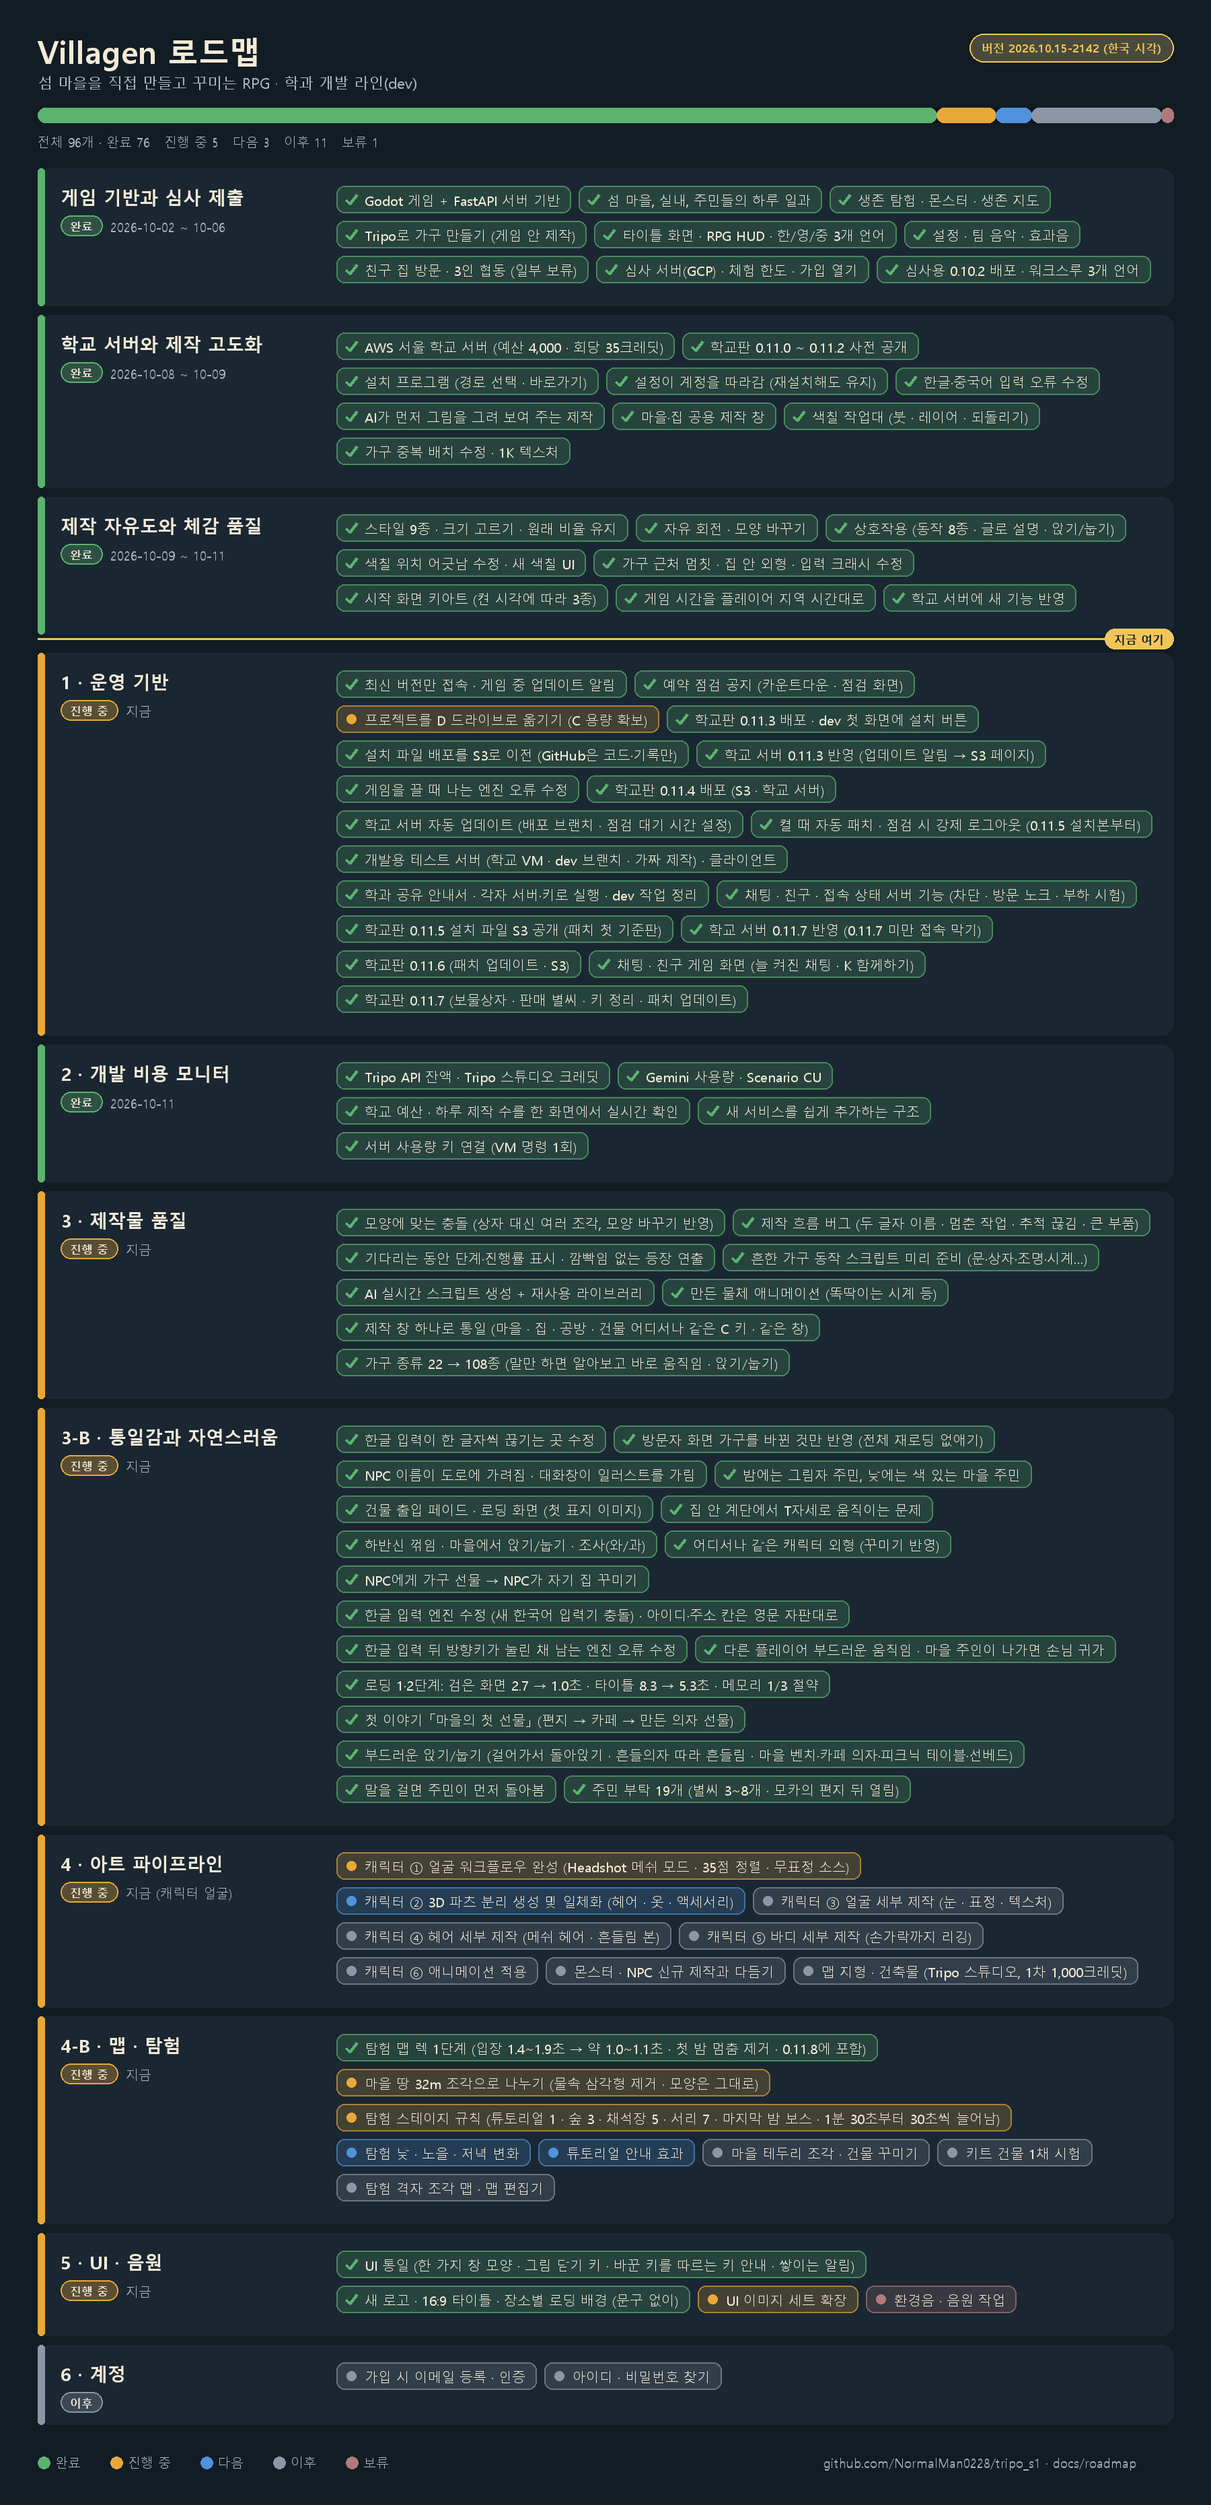
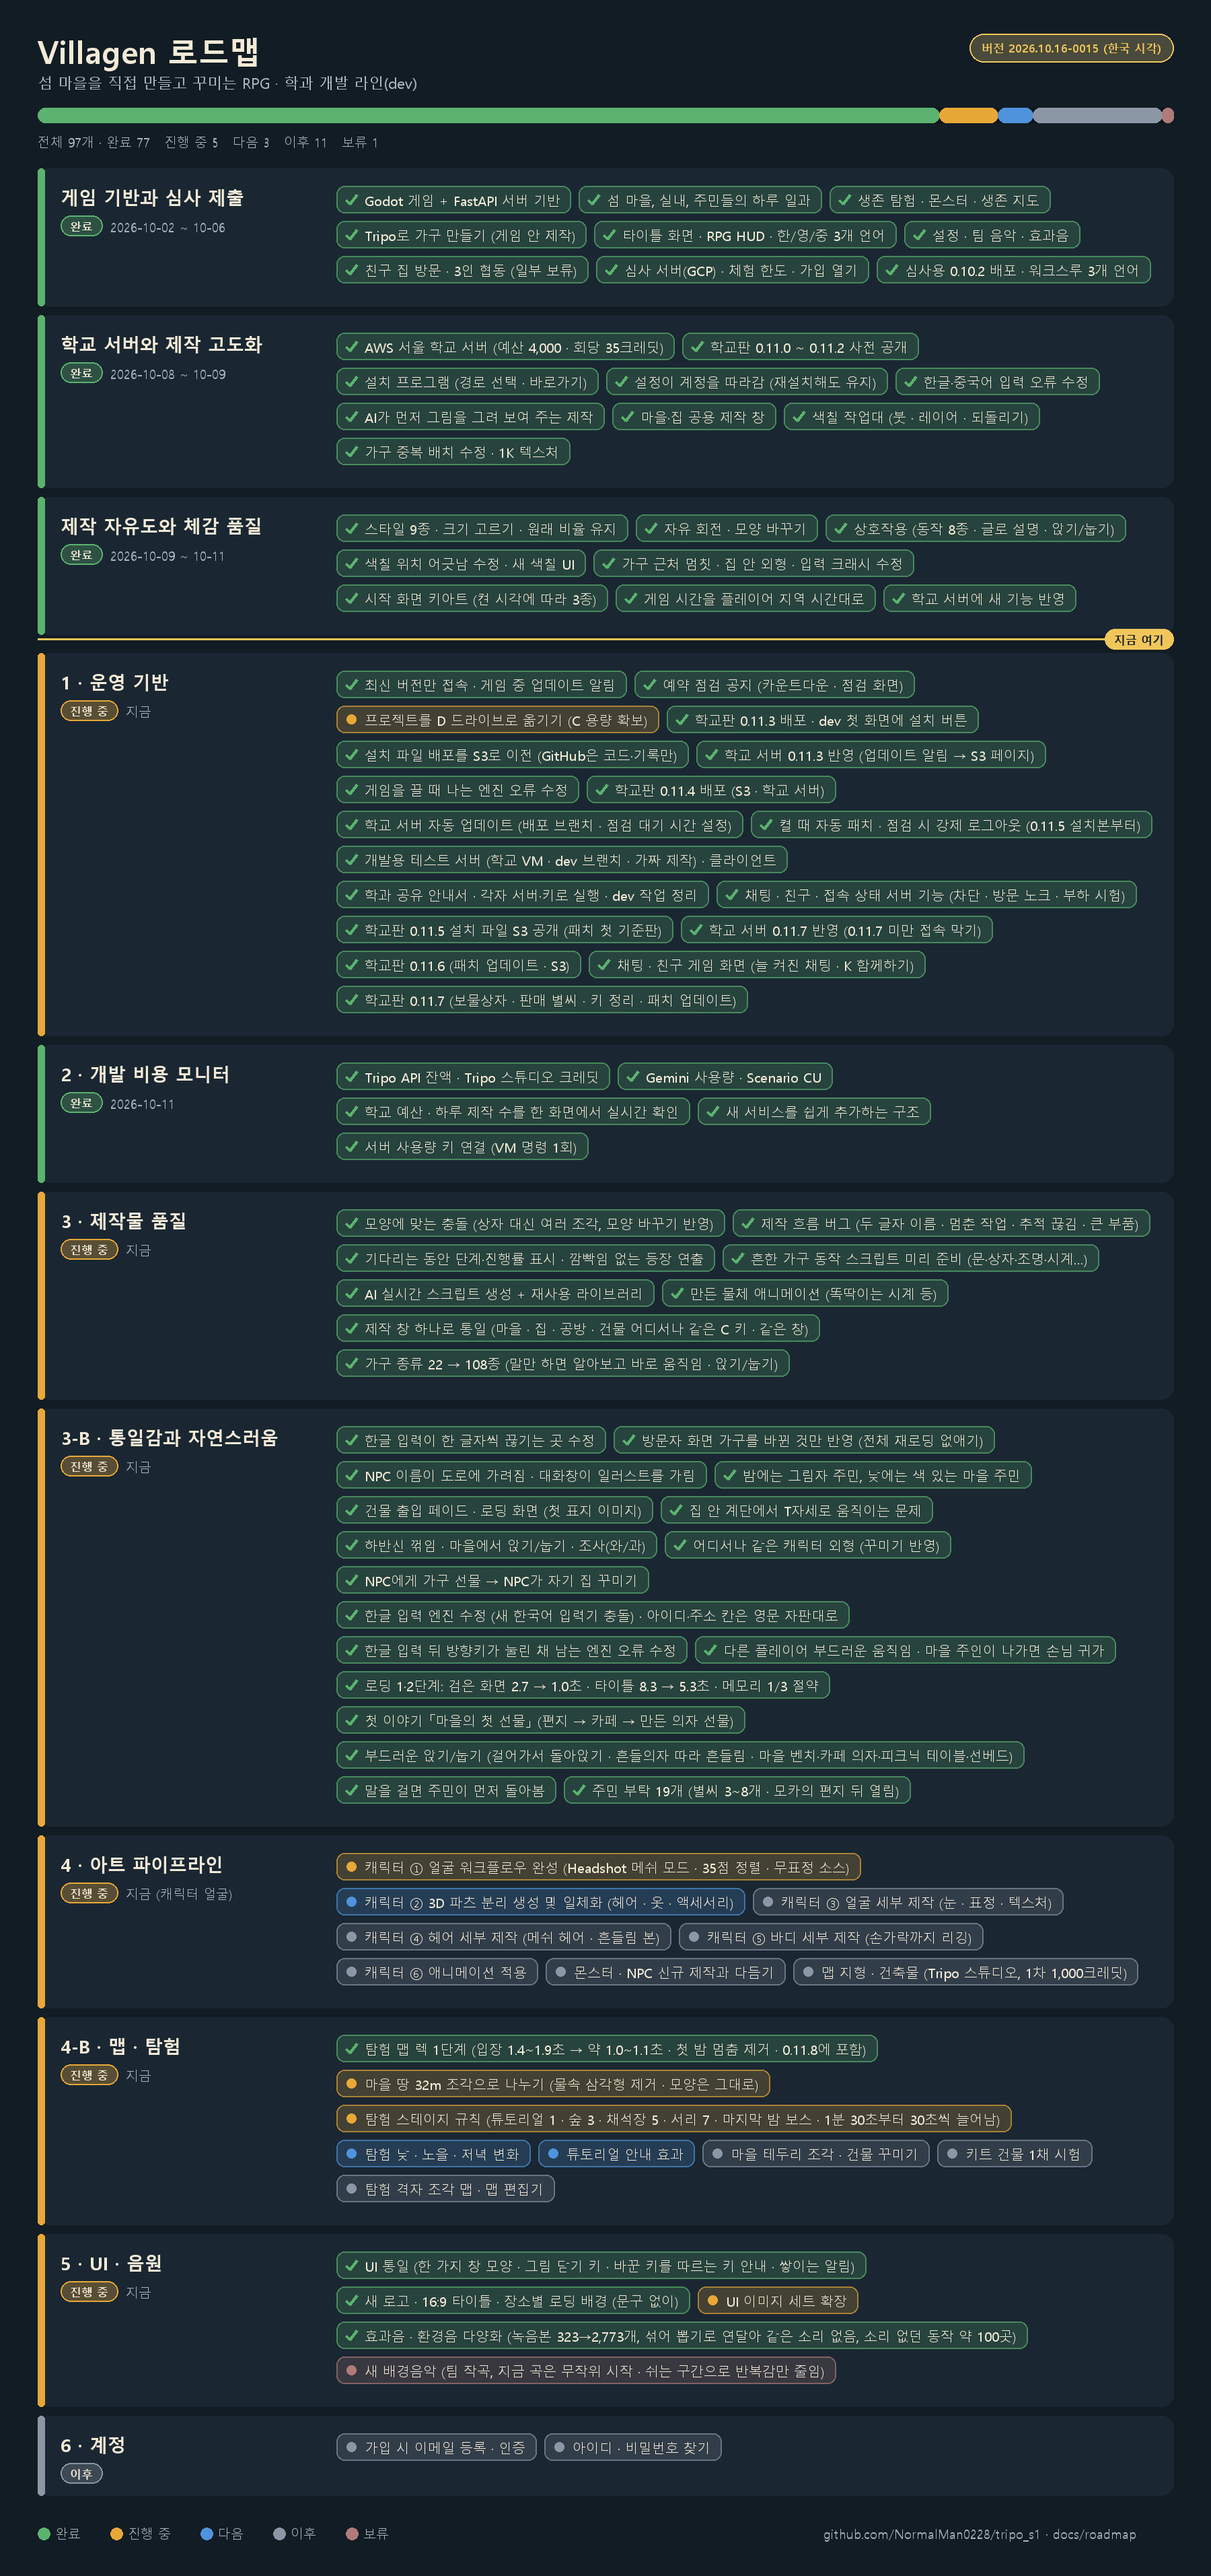
Sound docs (Korean, with figures) and roadmap: effects and ambience variety done
- docs/sound/README_KO.md: what changed per area, newly sounded actions, pipeline, Movie Maker
  before/after proof (take identification 100 %), tests, open items, sizes, how to regenerate
- Roadmap: "효과음 · 환경음 다양화" done 10-16; new music stays on hold for the team

diff --git a/docs/sound/README_KO.md b/docs/sound/README_KO.md
@@ -1,0 +1,161 @@
+# 사운드 다양화 (2026-10-15 ~ 16, 브랜치 wt/sound)
+
+요청: "중복으로 계속 들리는 게 없고 다양하도록 최대한 많이 만들어서 적용".
+
+결과:
+- 효과음 녹음본(테이크)은 **323개에서 2,773개**로, 소리 종류는 **195개에서 487개**로 늘었습니다.
+- 모든 소리는 같은 종류 안에서 **섞어 뽑기(셔플백)**로 재생됩니다. 한 바퀴를 다 돌기 전에는 같은 테이크가 다시 나오지 않습니다. 여기에 음높이와 음량을 조금씩 흔듭니다.
+- 소리가 없던 동작 약 100곳에 소리를 붙였습니다.
+- 팀이 만든 음악 5곡은 그대로 두었습니다.
+
+![폴더별 녹음본 수](img/overview.png)
+
+이전 0개인 폴더는 게임 코드가 실행 중에 고정 시드로 합성하던 소리입니다. 그래서 매번 완전히 같은 소리가 났습니다(발소리만 4가지 변형이 있었습니다).
+
+## 1. 분야별로 달라진 것
+
+| 분야 | 이전 | 이후 |
+|---|---|---|
+| UI (`RpgUi.sfx`) | 6종 × 1개 | 52종, 355개 (호버 15, 클릭 13, 열기·닫기 9 …) + 거절·탭·선택·슬라이더·서랍·채팅·퀘스트·배치·페인터 등 신규 46종 |
+| 생활·낚시 (`LifeSfx`) | 실행 중 합성 1개씩 | 31종, 207개 (릴 틱 16, 수확 12, 입질 10, 몸부림 10 …) |
+| 핵심 효과 (`Sound.effect`) | 합성 1개씩 | 14종, 70개 (보상·채집·제작·먹기·수프·붕대·거절·판매·구매·새날·승리·패배) |
+| 발소리 (`WorldAudio`) | 6표면 × 4 합성 | 16표면 × 걷기·뛰기 × 14개 (풀·모래·돌·나무·바위·얕은 물·눈·얼음·자갈·낙엽·재·흙·마루·타일·러그·계단) + 옷 스침 8개 |
+| 환경음 | 7~10초 루프 7개 | 60~90초 루프 19개 (마을·밤·숲·서리·채석장·불씨·실내 난로·시계·풍차·카페 등) + 무작위 스팟 (새 16, 갈매기 8, 파도 18, 돌풍 8, 귀뚜라미 8, 부엉이 6, 개구리 8, 수탉 3, 풍차 6, 먼 종 3) |
+| 소품 (`Fx`·필드·실내·문) | 문 28 + 필드 14 + 합성 | 필드 25종 162개, Fx 21종 124개, 실내 16종 98개, 문 14곳 × 열기·닫기 × 4개 |
+| 전투·채집 (`CombatAudio`) | 51개 (1~3개씩) | 40종 298개. 휘두르기 15, 타격 13, 채집 12개(팀 녹음 1번을 바탕으로 만든 변형) |
+| 몬스터 (`CreatureAudio`) | 종별·동작별 2개 | 133종 470개. 종 × 동작마다 6개 이상 + 발소리(발바닥·발굽·쿵·철벅·날갯짓) |
+| 주인공 목소리 (`HeroVoice`) | 22개 | 84개 |
+| NPC 목소리 (`VoiceBabble`) | 캐릭터당 음절 뱅크 1개 | 뱅크 3개를 음절마다 섞어 씀 + 감정 표현(♪ ! … ♥ ✉ zz) + 인사 + 편지·표지판 펜 소리 |
+
+## 2. 새로 소리가 생긴 동작 (주요)
+
+- **이동**
+  - 실내 걷기(마루·타일·돌·러그)와 계단
+  - 생존 지역별 지면(눈·얼음·자갈·낙엽·재)과 밭의 흙
+  - 다른 플레이어·그림자 주민·몬스터의 발소리(위치 기반)
+  - 착지, 바다에 빠질 때 첨벙 소리
+- **배치**
+  - 고스트 회전 래칫, 격자 스냅
+  - 놓을 수 있음 ↔ 없음이 바뀔 때
+  - 집기, 놓기, 취소, 빠른 칠하기
+  - 만든 물건 사용(클릭)
+- **낚시**
+  - 물고기 몸부림 물튀김, 찌 물결
+  - 줄 감는 바람 소리, 놓친 뒤 감기
+  - 낚아 올림, 장비 장착
+- **마을**
+  - 가방으로 날아드는 아이템(연속으로 주우면 음이 올라감)
+  - 열매 떨어짐과 튕김
+  - 상점에서 살 때와 팔 때 다른 소리, 등대 종, 잠긴 문 노크
+  - 우편함·깃발·우물·망원경·모이통 새 소리
+  - 보물상자 열기와 덜컹 소리
+- **UI**
+  - 거절할 때 반가운 알림음 대신 부드러운 거절음
+  - 토스트 종류별 소리(성공·경고·오류·소셜)
+  - 서랍 열기·닫기, 탭, 목록 선택, 재화 카운트, 숫자키 선택지, 대사 넘김
+- **소셜**
+  - 채팅 받기·보내기·귓속말
+  - 친구, 입장·퇴장, 함께하기 창(K)
+- **퀘스트**
+  - 수락, 완료 가능, 완료, 별 착지, 해금
+- **좌석** (상호작용 소켓)
+  - 앉을 때 닿는 소리, 일어날 때, 흔들의자·해먹 삐걱임, 거절
+- **NPC**
+  - 감정 말풍선 소리, 실내 주민 말소리, 자는 주민
+  - 스토리 손님의 발소리와 앉는 소리
+
+## 3. 파이프라인
+
+![파이프라인](img/pipeline.png)
+
+- 합성은 Python/numpy로만 합니다(`tools/sfx/`, 설명은 `tools/sfx/README.md`).
+  - AI 오디오 모델은 쓰지 않았습니다. AudioGen과 MusicGen은 비상업 라이선스이고, Stable Audio는 이용 승인이 필요합니다.
+- 같은 종류의 테이크는 "같은 동작을 여러 번 녹음한 것"처럼 만들었습니다. 어택, 배음 비율, 길이(±15 %), 잡음 질감이 서로 다릅니다.
+  - 검사 도구 `sfx_qa.py`가 거의 같은 두 테이크(유사도 0.90 이상)를 실패로 잡습니다.
+  - 체감 음량이 튀는 테이크(A가중 기준 중앙값보다 2.5 dB 이상 큰 것)도 실패로 잡습니다.
+- 원본 파일은 덮어쓰지 않았습니다. 팀 녹음(채집 3종), `ui/*.wav`, 문 소리가 해당됩니다.
+  - 새 테이크는 `_1`, `_2` … 번호로 옆에 추가했습니다.
+  - 다시 만들 때는 `SFX_BASE=merge-version-gate`로 실행합니다. 그러면 원본은 보호되고 우리가 만든 테이크만 다시 써집니다.
+
+## 4. 게임 안 증명 (Movie Maker 녹음)
+
+같은 장면을 두 빌드에서 녹화했습니다(`tests/sound_variety_capture.gd`, 약 58초, 48 kHz).
+- 기준 코드: `merge-version-gate` a38ba1f
+- 이후: `wt/sound` 병합본
+
+녹화된 게임 믹스에서 각 소리가 어느 테이크인지 상관 분석으로 다시 찾아냈고, 엔진 로그와 **100 % 일치**했습니다.
+
+![요약](img/proof_summary.png)
+
+| 같은 동작을 연달아 | 이전: 서로 다른 소리 / 바로 반복 | 이후: 서로 다른 소리 / 바로 반복 |
+|---|---|---|
+| 풀 발걸음 18번 | 4 / 0 | 14 / 0 |
+| 돌·나무·모래 발걸음 각 11번 | 4 / 0 | 11 / 0 |
+| UI 호버 12번 | 1 / 11 | 10~12 / 0 |
+| UI 클릭 8번 | 1 / 7 | 8 / 0 |
+| 낚시 릴 틱 10번 | 1 / 9 | 10 / 0 |
+| 물건 쿵 8번 | 1 / 7 | 8 / 0 |
+
+![8번 연속 비교](img/proof_strips.png)
+
+![녹음 전체 레벨](img/proof_timeline.png)
+
+녹음을 듣고 맞춘 것(이후 커밋 반영):
+- 클릭 테이크 하나가 -1.9 dBFS까지 튀었습니다. 그래서 클릭 피크를 -6 dBFS로 제한했습니다.
+- 새 마을 환경음의 바닥이 예전보다 6~7 dB 높아서 릴 틱과 모래 발소리가 묻혔습니다.
+  - 마을 야외 환경음을 4 dB 낮췄습니다.
+  - 릴 틱은 +6 dB, 모래 발소리는 +2 dB 올렸습니다.
+- E 안내 칩의 틱이 같은 순간의 마우스 호버 소리를 막았습니다. 칩에 전용 종류 `chip`을 줘서 해결했습니다.
+
+## 5. 테스트
+
+| 구분 | 결과 |
+|---|---|
+| 소리 테스트 (헤드리스) | sfx_bank_check, audio_check, audio_bank_check, door_sounds_check, ui_sfx_check, life_sound_check, voice_variety_check 모두 통과 |
+| 하네스 (병합본) | 보물상자·채팅창·창 단축키·토스트·HUD 배치·설정·퀘스트·스토리·집 방문·NPC 대화·상호작용·좌석·페인터·옷장·멀티플레이·통합 테스트 통과 |
+| 기준 코드에서도 실패 (사운드와 무관) | island_bake_check·survival_bake_check(굽기 파일이 생성물이라 작업 폴더에 없음), studio_flow(시험 계정 없음), ix_village_check 2건(밤이라 주민 없음) |
+| 종료 시 누수 | 사운드 쪽 원인은 없습니다. 작업 중 1건(환경음을 미리 불러놓고 회수하지 않은 문제)을 찾아서 고쳤습니다. 창 모드 테스트 2개에 남는 경고는 기준 코드에도 똑같이 있습니다 |
+
+## 6. 귀로 확인이 필요한 것 / 남은 일
+
+- 모든 소리는 수치(유사도·음량·스펙트로그램)와 게임 녹화로 검사했습니다. 사람이 직접 듣고 맞춘 것은 아닙니다. 플레이해 보시고 "이 소리가 크다/거슬린다"를 알려 주시면 해당 종류만 다시 만들거나 재생 dB만 조정합니다.
+- 해변에서는 새 스팟이 파도에 묻혀 거의 들리지 않습니다(의도한 거리감). 모래 발소리도 파도와 비슷한 크기입니다.
+- 실내 방에서 만든 물건을 사용할 때는 아직 소리가 없습니다(마을에는 있음).
+- 음악은 팀 곡이라 손대지 않았습니다. 대신 재생 방식만 바꿨습니다.
+  - 시작 위치를 무작위로 정합니다.
+  - 최소 75초 또는 두 바퀴를 들은 뒤 20~60초 쉬고, 환경음만 남깁니다.
+  - 짧은 곡(서리 13초, 숲 26초)이 계속 반복되는 문제를 줄이려는 것입니다. 새 곡은 팀이 만들어야 합니다.
+
+## 7. 용량
+
+- WAV 원본: 21.5 MB(323개) → 117 MB(2,773개)
+- 게임에 들어가는 가져온 데이터(QOA 압축): 약 32 MB
+- 무게 대부분은 환경음 루프(약 24 MB)와 몬스터 소리입니다. 환경음 일부는 용량 때문에 11 kHz로 저장했습니다(어두운 소리라 차이가 작음). 밝아야 하는 벌레·밤·숲·폭포·난로는 22 kHz입니다.
+
+## 8. 다시 만들기·조정
+
+```bash
+cd D:/lsm26/wt/sound
+SFX_BASE=merge-version-gate .tools/art-venv/Scripts/python.exe tools/sfx/gen_ui.py --only click
+.tools/art-venv/Scripts/python.exe tools/sfx/sfx_qa.py game/assets/sfx/ui --base merge-version-gate
+.tools/godot/Godot_v4.7.2-stable_win64_console.exe --headless --path game --import
+```
+
+- 생성기 목록:
+
+  | 생성기 | 분야 |
+  |---|---|
+  | `gen_ui.py` | UI |
+  | `gen_life.py` | 생활·핵심 |
+  | `gen_props.py` | Fx·필드·실내 |
+  | `gen_doors.py` | 문 |
+  | `make_world_steps.py` | 발소리 |
+  | `make_world_ambience.py` | 환경음 |
+  | `gen_combat*.py` | 전투·몬스터·주인공 |
+  | `gen_voice.py` | NPC 목소리 |
+
+- 재생 음량만 바꿀 때는 호출하는 곳의 dB를 고칩니다. 위치는 다음과 같습니다.
+  - 각 스크립트의 `RpgUi.sfx(kind, db)`
+  - `world_audio.gd`의 `BED_DB`·`SURFACE_DB`
+  - `combat_audio.gd`의 `EVENTS`
+- 게임 안 증명을 다시 하려면 `tests/sound_variety_capture.gd`를 Movie Maker로 녹화합니다(`--write-movie`, 두 번째 모니터 `--position 2880,314`).

diff --git a/docs/roadmap/ROADMAP_KO.md b/docs/roadmap/ROADMAP_KO.md
@@ -1,8 +1,8 @@
 # Villagen 로드맵
 
-**버전 2026.10.15-2142** (한국 시각) · 섬 마을을 직접 만들고 꾸미는 RPG · 학과 개발 라인(dev)
+**버전 2026.10.16-0015** (한국 시각) · 섬 마을을 직접 만들고 꾸미는 RPG · 학과 개발 라인(dev)
 
-> 그림으로 보기: [VISUAL_KO.md](VISUAL_KO.md) · 전체 96개 중 완료 76 · 진행 중 5 · 다음 3 · 이후 11 · 보류 1
+> 그림으로 보기: [VISUAL_KO.md](VISUAL_KO.md) · 전체 97개 중 완료 77 · 진행 중 5 · 다음 3 · 이후 11 · 보류 1
 
 - [학교 서버 운영 안내](../SCHOOL_SERVER_KO.txt)
 - [제작 품질표](../CRAFT_QUALITY_KO.md)
@@ -129,7 +129,8 @@
 - [x] UI 통일 (한 가지 창 모양 · 그림 닫기 키 · 바꾼 키를 따르는 키 안내 · 쌓이는 알림) (10-15)
 - [x] 새 로고 · 16:9 타이틀 · 장소별 로딩 배경 (문구 없이) (10-15)
 - [ ] UI 이미지 세트 확장 · *진행 중*
-- [ ] 환경음 · 음원 작업 · *보류*
+- [x] 효과음 · 환경음 다양화 (녹음본 323→2,773개, 섞어 뽑기로 연달아 같은 소리 없음, 소리 없던 동작 약 100곳) (10-16)
+- [ ] 새 배경음악 (팀 작곡, 지금 곡은 무작위 시작 · 쉬는 구간으로 반복감만 줄임) · *보류*
 
 ## 6 · 계정  `이후`
 
@@ -140,6 +141,7 @@
 
 | 버전 (한국 시각) | 바뀐 점 |
 |---|---|
+| 2026.10.16-0015 | 효과음·환경음 다양화: 녹음본 323→2,773개, 섞어 뽑기, 소리 없던 동작 약 100곳 (docs/sound/README_KO.md) |
 | 2026.10.15-2142 | 맵 · 탐험 단계 추가 (탐험 렉 1단계 완료, 땅 조각화 · 스테이지 규칙 진행 중), 학교 서버 0.11.7 반영 완료 |
 | 2026.10.15-2101 | 0.11.7 준비: 늘 켜진 채팅, K 함께하기, 키·창 통일, 보물상자 11개, 판매 별씨, 부탁 일찍 열림, 사다리, 길막·안내 반복 고침 |
 | 2026.10.15-1713 | 0.11.6 준비: UI 통일, 새 로고·타이틀·로딩 배경, 부드러운 앉기/눕기, 주민 부탁 19개, 배치·--no-patch 고침 |

diff --git a/docs/roadmap/VISUAL_KO.md b/docs/roadmap/VISUAL_KO.md
@@ -1,7 +1,7 @@
 # Villagen 로드맵 (그림)
 
-**버전 2026.10.15-2142** (한국 시각) · 글로 보기: [ROADMAP_KO.md](ROADMAP_KO.md)
+**버전 2026.10.16-0015** (한국 시각) · 글로 보기: [ROADMAP_KO.md](ROADMAP_KO.md)
 
-![Villagen 로드맵 2026.10.15-2142](roadmap.png)
+![Villagen 로드맵 2026.10.16-0015](roadmap.png)
 
 초록 완료 · 주황 진행 중 · 파랑 다음 · 회색 이후 · 갈색 보류

diff --git a/docs/roadmap/README.md b/docs/roadmap/README.md
@@ -1,8 +1,8 @@
 # Villagen 로드맵
 
-**버전 2026.10.15-2142** (한국 시각)
+**버전 2026.10.16-0015** (한국 시각)
 
 - [그림으로 보기](VISUAL_KO.md)
-- [글로 보기](ROADMAP_KO.md) — 완료 76 · 진행 중 5 · 다음 3 · 이후 11
+- [글로 보기](ROADMAP_KO.md) — 완료 77 · 진행 중 5 · 다음 3 · 이후 11
 
 ![로드맵](roadmap.png)
